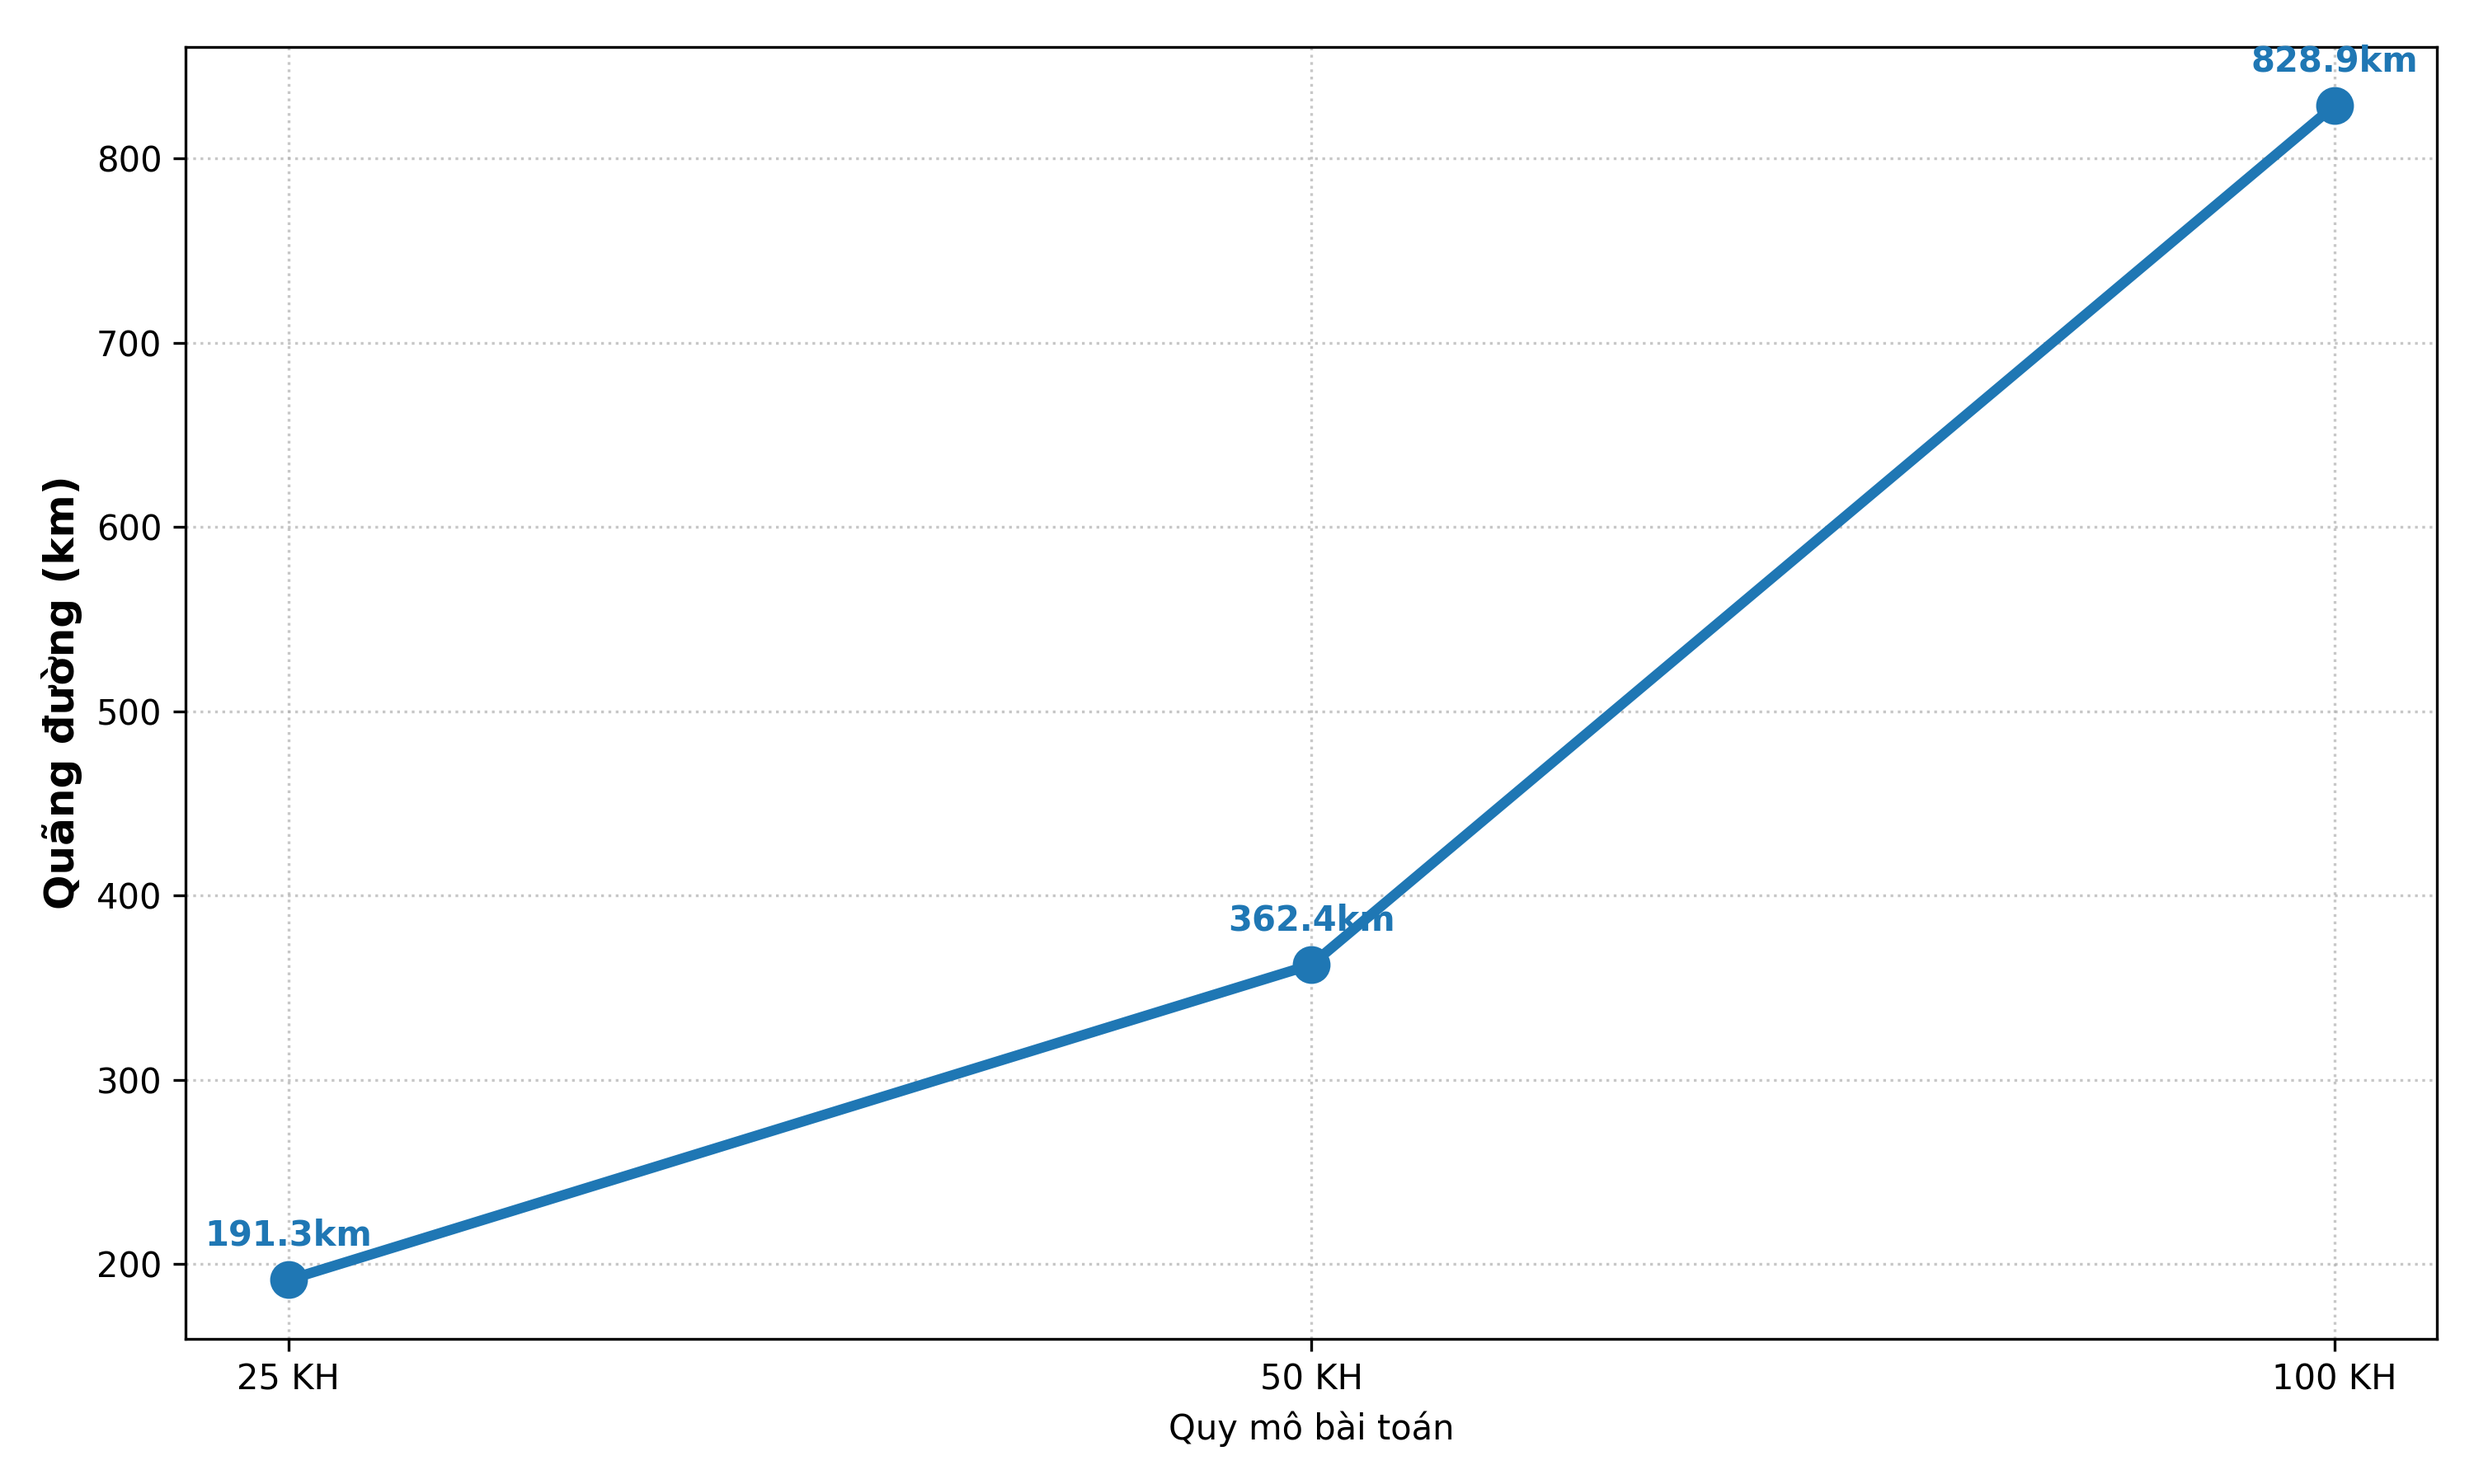
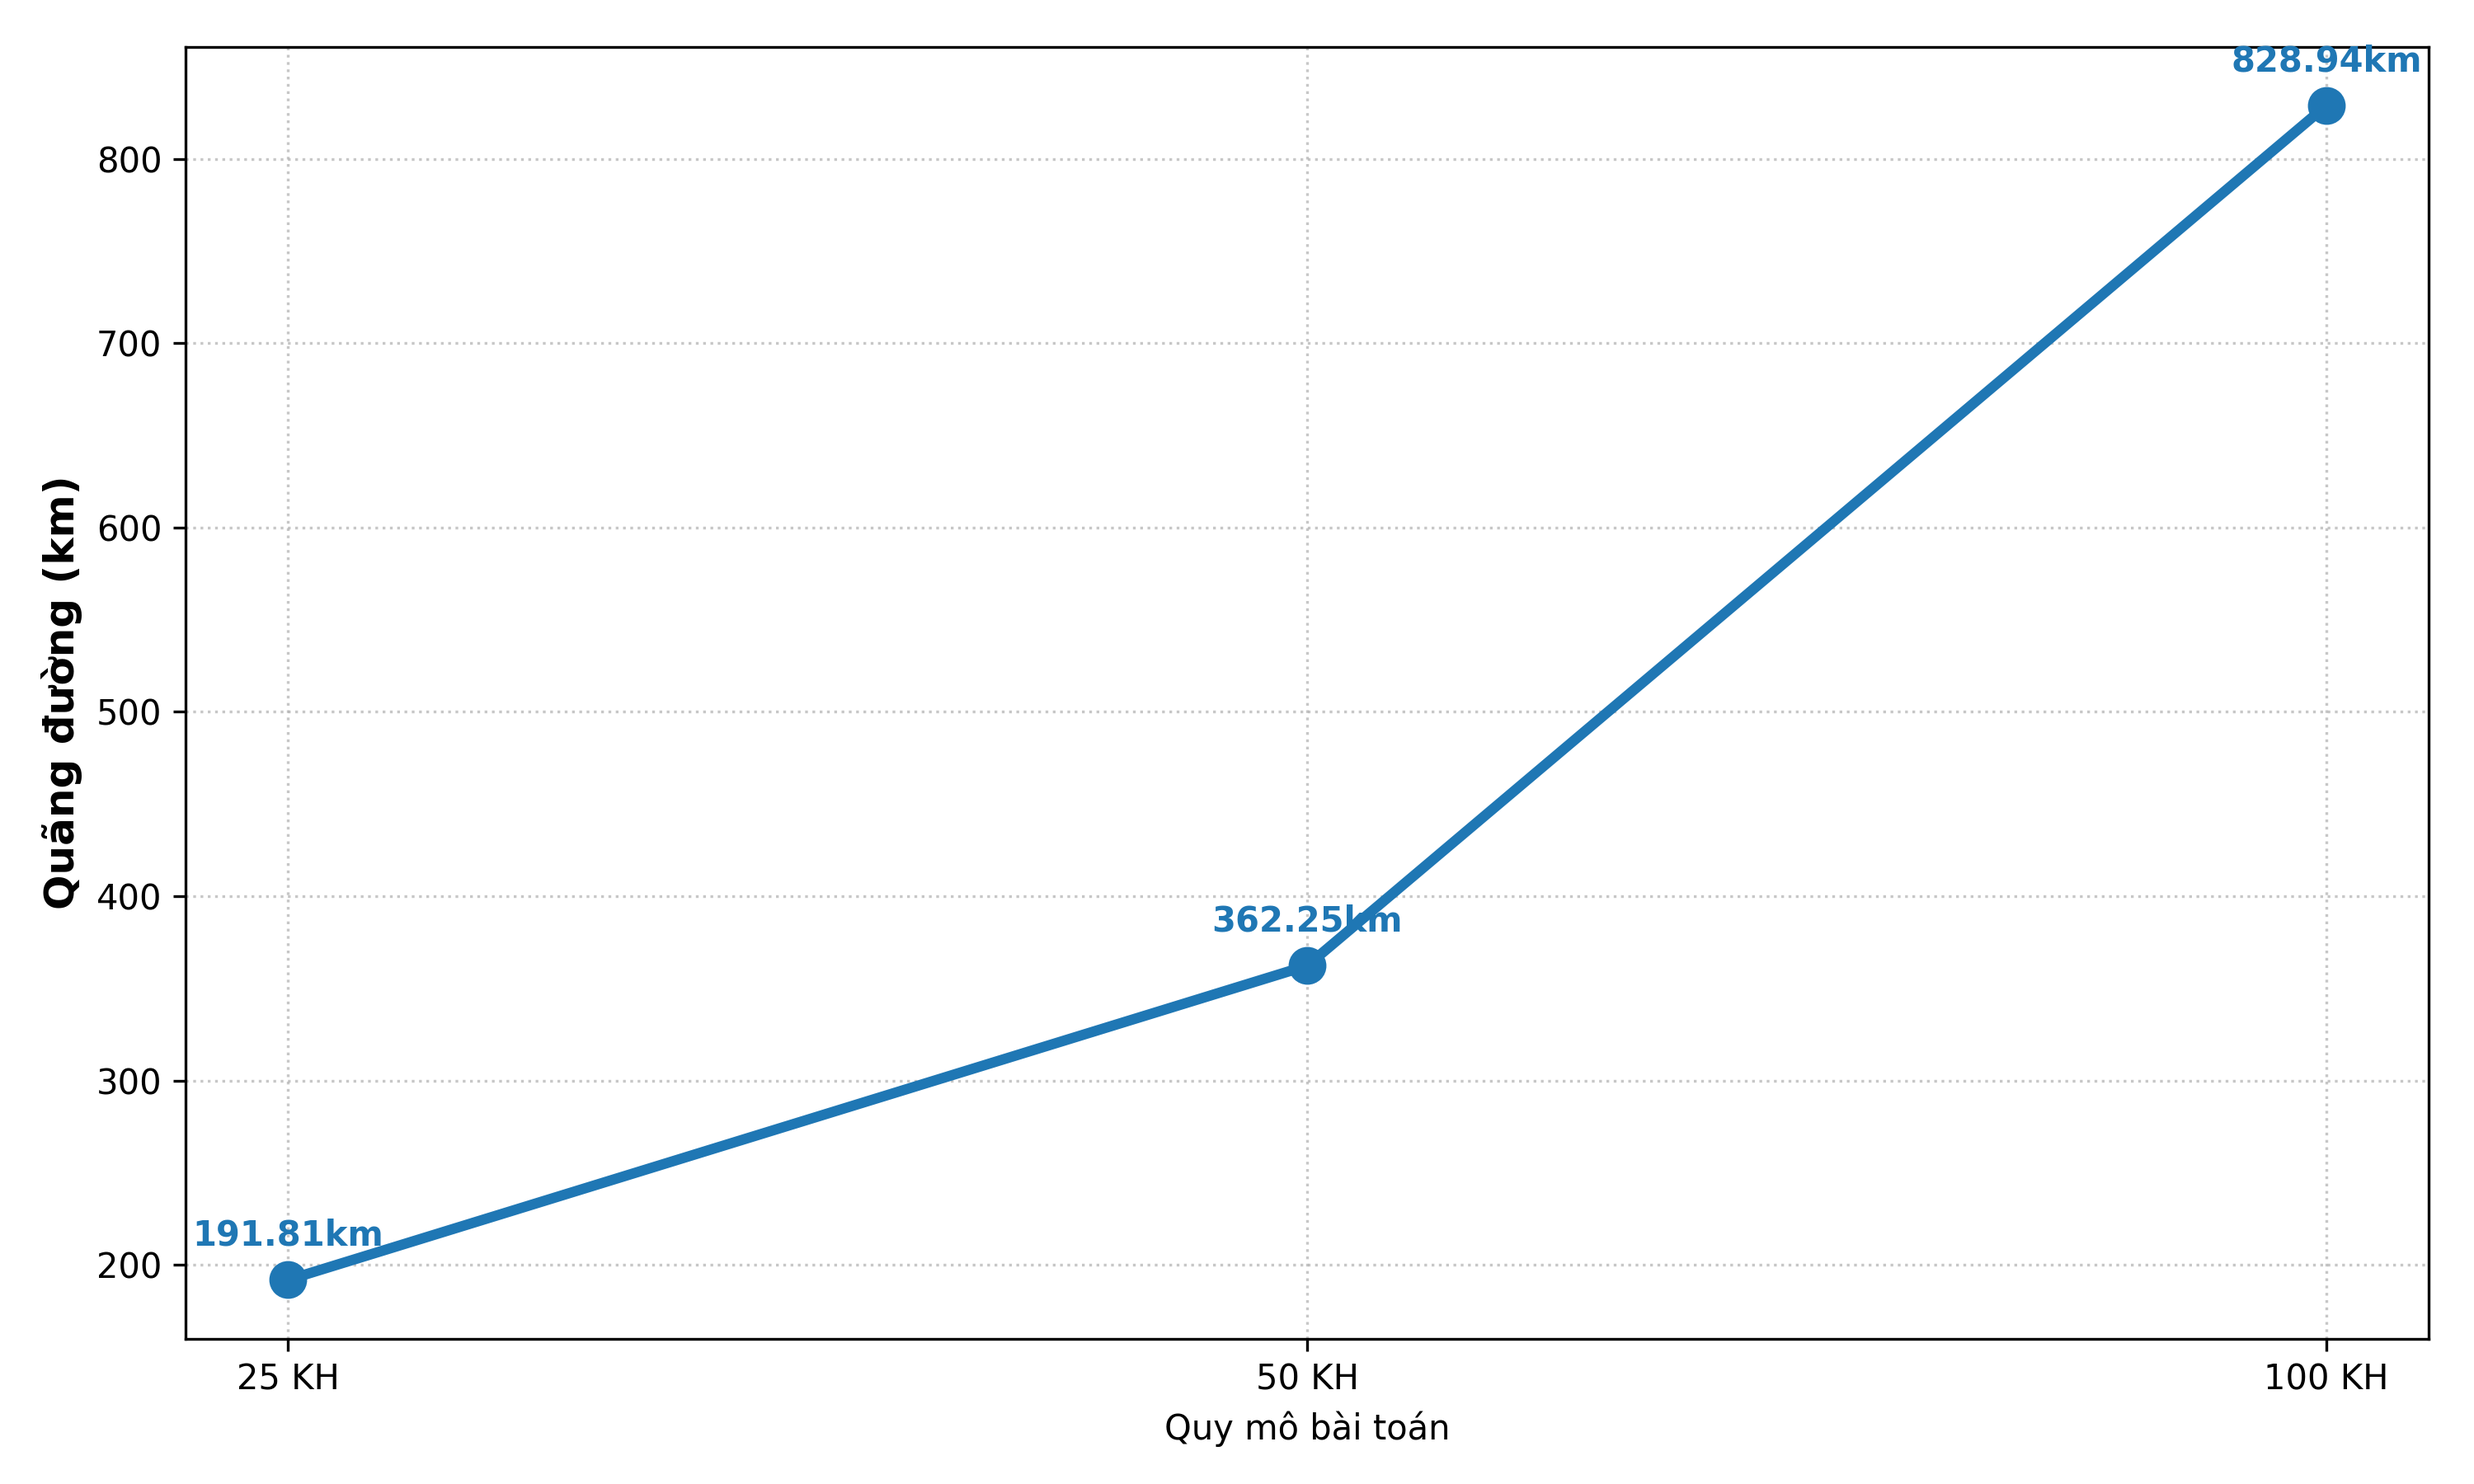
change

diff --git a/solve_solomon_100.py b/solve_solomon_100.py
@@ -91,10 +91,7 @@ def solve_vrptw_100(data, capacity):
 
     # Kích hoạt tạo nhát cắt tự động (Lazy Constraints)
     model.constrs_generator = SubtourElimination(n)
-    
-    # Cài đặt giới hạn
-    model.max_gap = 0.10 # Cho phép sai số 10%
-    status = model.optimize(max_seconds=300)
+    status = model.optimize()
 
     if status == OptimizationStatus.OPTIMAL or status == OptimizationStatus.FEASIBLE:
         total_dist = model.objective_value
@@ -181,7 +178,7 @@ def plot_solution(data_rows, routes, total_dist=None, save_path=None):
 # --- CHƯƠNG TRÌNH CHÍNH ---
 if __name__ == "__main__":
     FOLDER = "solomon-100"
-    FILE_NAME = "RC101.txt"
+    FILE_NAME = "R201.txt"
     PATH = os.path.join(FOLDER, FILE_NAME)
     
     print(f"--- Bắt đầu giải bài toán 100 khách hàng: {PATH} ---")

diff --git a/solve_solomon_50.py b/solve_solomon_50.py
@@ -93,8 +93,8 @@ def solve_vrptw_50(data, capacity):
     model.constrs_generator = SubtourElimination(n)
     
     # Cài đặt giới hạn thời gian
-    model.max_gap = 0.05 # Chấp nhận sai số 5%
-    status = model.optimize(max_seconds=120)
+    model.max_gap = 0
+    status = model.optimize()
 
     if status == OptimizationStatus.OPTIMAL or status == OptimizationStatus.FEASIBLE:
         total_dist = model.objective_value
@@ -180,7 +180,7 @@ def plot_solution(data_rows, routes, total_dist=None, save_path=None):
 # --- CHƯƠNG TRÌNH CHÍNH ---
 if __name__ == "__main__":
     FOLDER = "solomon-50"
-    FILE_NAME = "RC201.txt"
+    FILE_NAME = "RC101.txt"
     PATH = os.path.join(FOLDER, FILE_NAME)
     
     print(f"--- Đang giải {PATH} với 50 khách hàng ---")

diff --git a/solve_solomon_25.py b/solve_solomon_25.py
@@ -89,7 +89,7 @@ def solve_vrptw_branch_and_cut(data, capacity):
     model.constrs_generator = SubtourElimination(n)
     
     # 6. Giải toán
-    model.max_gap = 0.05
+    model.max_gap = 0
     status = model.optimize()
 
     # --- HẬU XỬ LÝ KẾT QUẢ ---
@@ -180,7 +180,7 @@ def plot_solution(data_rows, routes, total_dist=None, save_path=None):
     plt.show()
 
 if __name__ == "__main__":
-    file_path = "solomon-25/C101.txt"
+    file_path = "solomon-25/RC201.txt"
     data, capacity = read_solomon(file_path, n_customers=25)
     if data:
         print(f"--- Đang giải {file_path} ---")

diff --git a/draw_chart.py b/draw_chart.py
@@ -5,8 +5,8 @@ import numpy as np
 # Thay thế các con số dưới đây bằng kết quả thực tế từ máy của bạn
 data_results = {
     'Quy mô': ['25 KH', '50 KH', '100 KH'],
-    'Thời gian (s)': [0.85, 15.2, 120.0],  # Giây
-    'Quãng đường (km)': [191.3, 362.4, 828.9], # km
+    'Thời gian (s)': [0.21, 2.98, 20.25],
+    'Quãng đường (km)': [191.81, 362.25, 828.94],
     'Số lượng xe': [3, 5, 10]
 }
 
